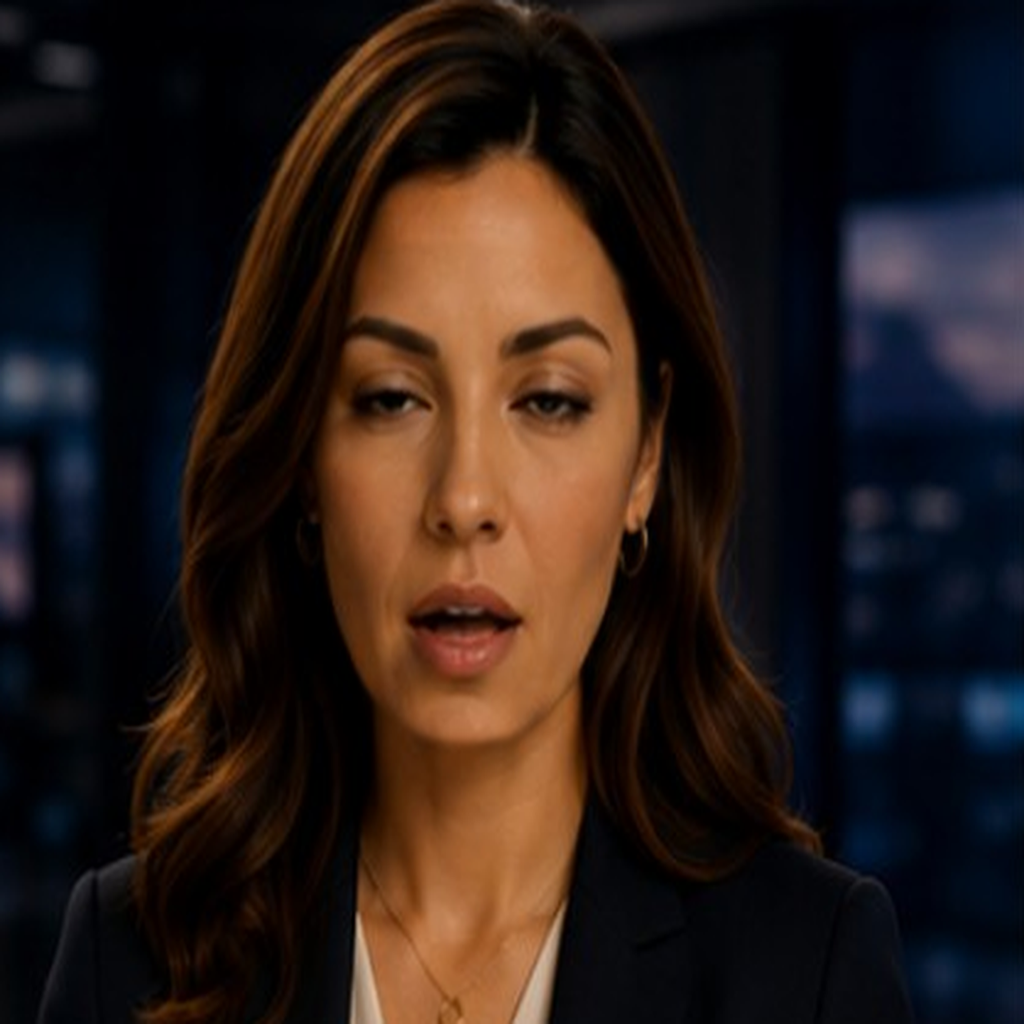
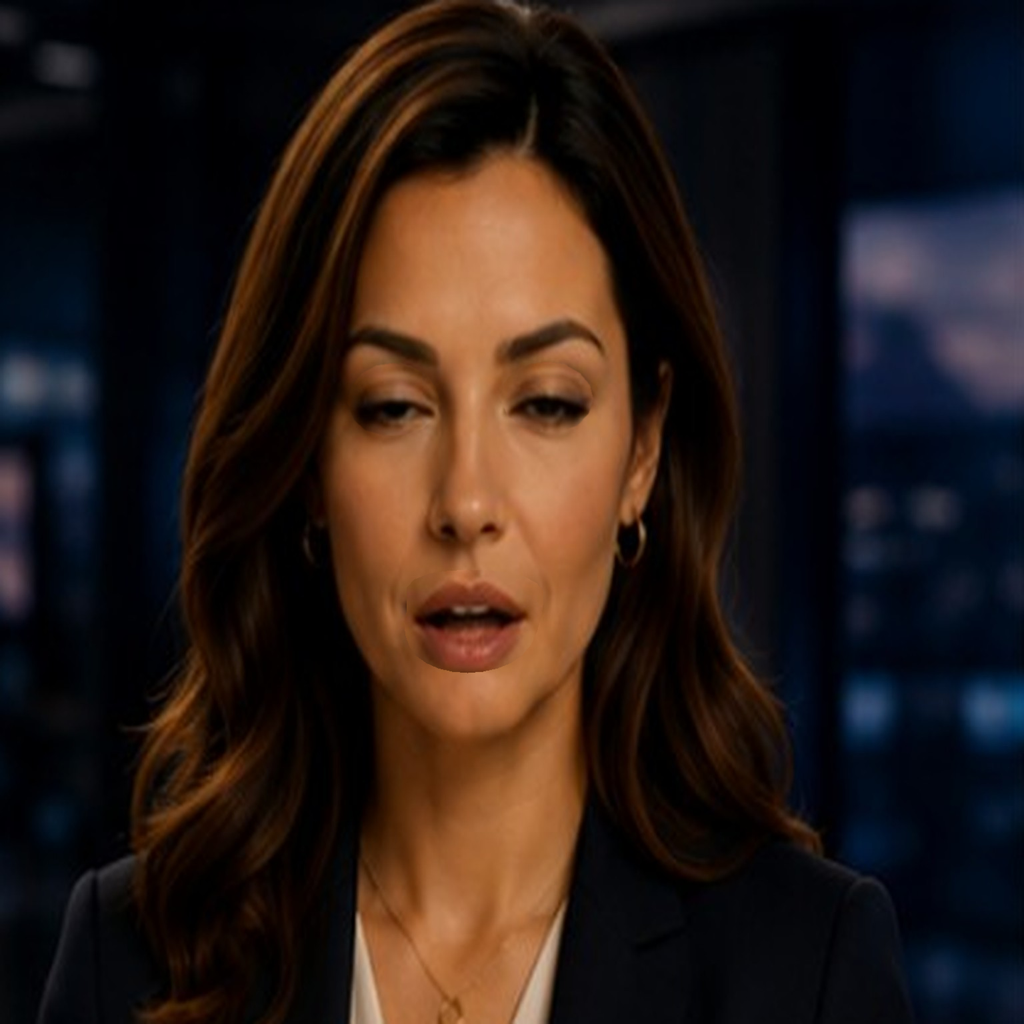
feat: Annas sprites v5 — lagerbaserad maskkompositering (projektägare + ChatGPT) (#1324)
Ersätter v4 (Claude Codes egen MediaPipe-baserade similarity-transform,
som lämnade kvar en mindre "pannan rör sig i sidled"-artefakt användaren
själv upptäckte i video) med ett helt nytt källmaterial byggt av
projektägaren och ChatGPT över ~4 timmar: en omutlig masterduk
(anna_base.png) + 5 oberoende alfamaskerade overlay-lager för mun
(small/medium/large) och ögon (half/closed), i stället för 12 separat
AI-genererade helbildsframes.

Komponerade de 12 kombinationerna själv (bas + valfritt mun-lager +
valfritt ögon-lager, alpha-compositing vid x=0,y=0 enligt medföljande
README) och verifierade oberoende — inte bara tog leverantörens ord för
det, samma rigorösa metod som tidigare avslöjade att v3 inte var
pixelstabil trots att den påstods vara det:

- 0 pixlars skillnad utanför mun-/ögonregionerna på samtliga 12
  kombinationer, både i originalupplösning (1536px) och efter
  nedskalning till 1024px webbstorlek
- Riktig variation inuti regionerna: 32–56% av munregionen ändras
  mellan mun-lägen, 41% av ögonregionen mellan open/half/closed
- Visuell kontaktkarta av alla 12 kombinationer granskad — inga synliga
  sömmar eller artefakter vid maskkanterna

Första versionen där "pixelstabilt" och "verkligt uttrycksfullt
mun/ögon" är sanna samtidigt, verifierat snarare än antaget. Inga
kodändringar krävs — filnamn och mun-/ögonmappning i AgentOverlay.js
matchar redan exakt.

ai-bus/context.md uppdaterad med v5-historik. Nästa steg (projektägaren):
[…]

diff --git a/ai-bus/context.md b/ai-bus/context.md
@@ -62,28 +62,35 @@ Stack: Next.js App Router, Supabase, Groq (primär AI), Gemini Flash (fallback),
 
 ## Bildmappning för Anna (`/public/avatarer/podd/`)
 
-Sedan sep 2026 (v4): pixelstabilt via lokal ansiktsjustering + kompositering,
-byggt av Claude Code snarare än levererat direkt av en bildgenerator. v1
-(pixelstabil metod, näst intill statisk mun — small/medium/large visuellt
-identiska) och v3 (bra mun-/ögonvariation, PÅSTODS pixelstabil men var det
-inte — Codex-granskning + oberoende pixel-diff visade 50%+ ändrade pixlar i
-pannan/kinderna/näsan mellan frames, dvs. hela ansiktet "skimrade" subtilt
-vid mun-cykling) löste var för sig bara hälften av problemet.
+**v5 (3 sep 2026, aktuell) — "anna_locked_final_v1", byggd av projektägaren + ChatGPT (~4h arbete), inte av Claude Code.**
+Helt annan arkitektur än v1–v4: inte 12 separat AI-genererade helbildsframes
+som efterhandsjusteras, utan EN omutlig masterduk (`anna_base.png`, 1536×1536)
++ 5 oberoende, alfamaskerade overlay-lager (`mouth_small/medium/large.png`,
+`eyes_half/closed.png`) som var för sig bara täcker en liten, tight region
+(mun ≈210×180px, ögon ≈375×115px — mätt, inte antaget). Pixelstabilitet är
+garanterad by construction: allt utanför de aktiva maskerna är exakt 0
+ändrade pixlar per design, inte något som behöver efterhandsverifieras och
+råka stämma. Claude Code komponerade de 12 kombinationerna själv (bas +
+valfri mun-lager + valfritt ögon-lager, `Image.alpha_composite` vid x=0,y=0
+enligt medföljande README) och verifierade ANDRA gången oberoende — inte
+bara tog leverantörens ord för det — innan filerna lades in: 0 pixlars
+skillnad utanför mun/ögon-boxarna på samtliga 12 kombinationer, både före
+och efter nedskalning 1536→1024px, plus riktig variation inuti boxarna
+(32–56% av munregionen ändras mellan mun-lägen, 41% av ögonregionen mellan
+open/half/closed). Detta är den första versionen där både "pixelstabilt"
+OCH "verkligt uttrycksfull mun/ögon" är sanna SAMTIDIGT, verifierat med
+samma rigorösa mätmetod som avslöjade att v3 inte var det den påstods vara.
 
-v4-metod: en tredje bildkälla gav frames med genuint bra mun-/ögonvariation
-men (precis som v3) inget delat masterduk — MediaPipe FaceMesh använder
-landmärken (ögonhörn, nästipp, panna — punkter som inte rör sig vid
-mun-/blinkrörelse) för att beräkna en similarity-transform (rotation+skala+
-translation) som geometriskt riktar in varje frames ansikte mot en vald
-masterbild. Ett feathrat ansiktsmask-lager kompositerar bara den inriktade
-ansiktsregionen ovanpå masterbildens OFÖRÄNDRADE bakgrund/hår/axlar.
-Resultat, verifierat oberoende (inte bara självrapporterat): bakgrund/axlar
-= 0 ändrad pixel (max=0) på alla 11 frames mot mastern, garanterat av
-kompositeringen — inte bara påstått. Mun-/ögonvariationen bevaras oförändrad
-från källbilderna (samma metod som gav bra uttryck i det tidigare, icke-
-stabila försöket). Alla 12 filer klassificerades objektivt via landmärke-
-härledda mått (eye aspect ratio, mouth aspect ratio) istället för att gissas
-fram visuellt.
+Tidigare versioner (för historik): v1 (pixelstabil metod, näst intill
+statisk mun — small/medium/large visuellt identiska) och v3 (bra
+mun-/ögonvariation, PÅSTODS pixelstabil men var det inte — Codex-granskning
++ oberoende pixel-diff visade 50%+ ändrade pixlar i pannan/kinderna/näsan
+mellan frames) löste var för sig bara hälften av problemet. v4 (Claude
+Codes egen MediaPipe FaceMesh-baserade similarity-transform +
+maskkompositering ovanpå en vald masterbild) löste båda halvorna men
+lämnade kvar en mindre "pannan rör sig i sidled"-artefakt som användaren
+själv upptäckte i video — det som ledde till att projektägaren och ChatGPT
+byggde v5 från grunden med en helt annan (enklare, mer robust) arkitektur.
 
 | Position | Öppna ögon | Halvöppna ögon | Stängda ögon |
 |---|---|---|---|
@@ -93,3 +100,6 @@ fram visuellt.
 | m3 stor mun | `anna-large.png` | `anna-m3-half.png` | `anna-m3-closed.png` |
 
 Oanvända filer: `anna-eyes-half.png`, `anna-eyes-closed.png`, `anna-blink-half.png`, `anna-blink-closed.png`
+
+**Nästa steg (enligt projektägaren):** samma lager-baserade arkitektur och
+process planeras för Peter/Nationalekonom-karaktärens sprites.
